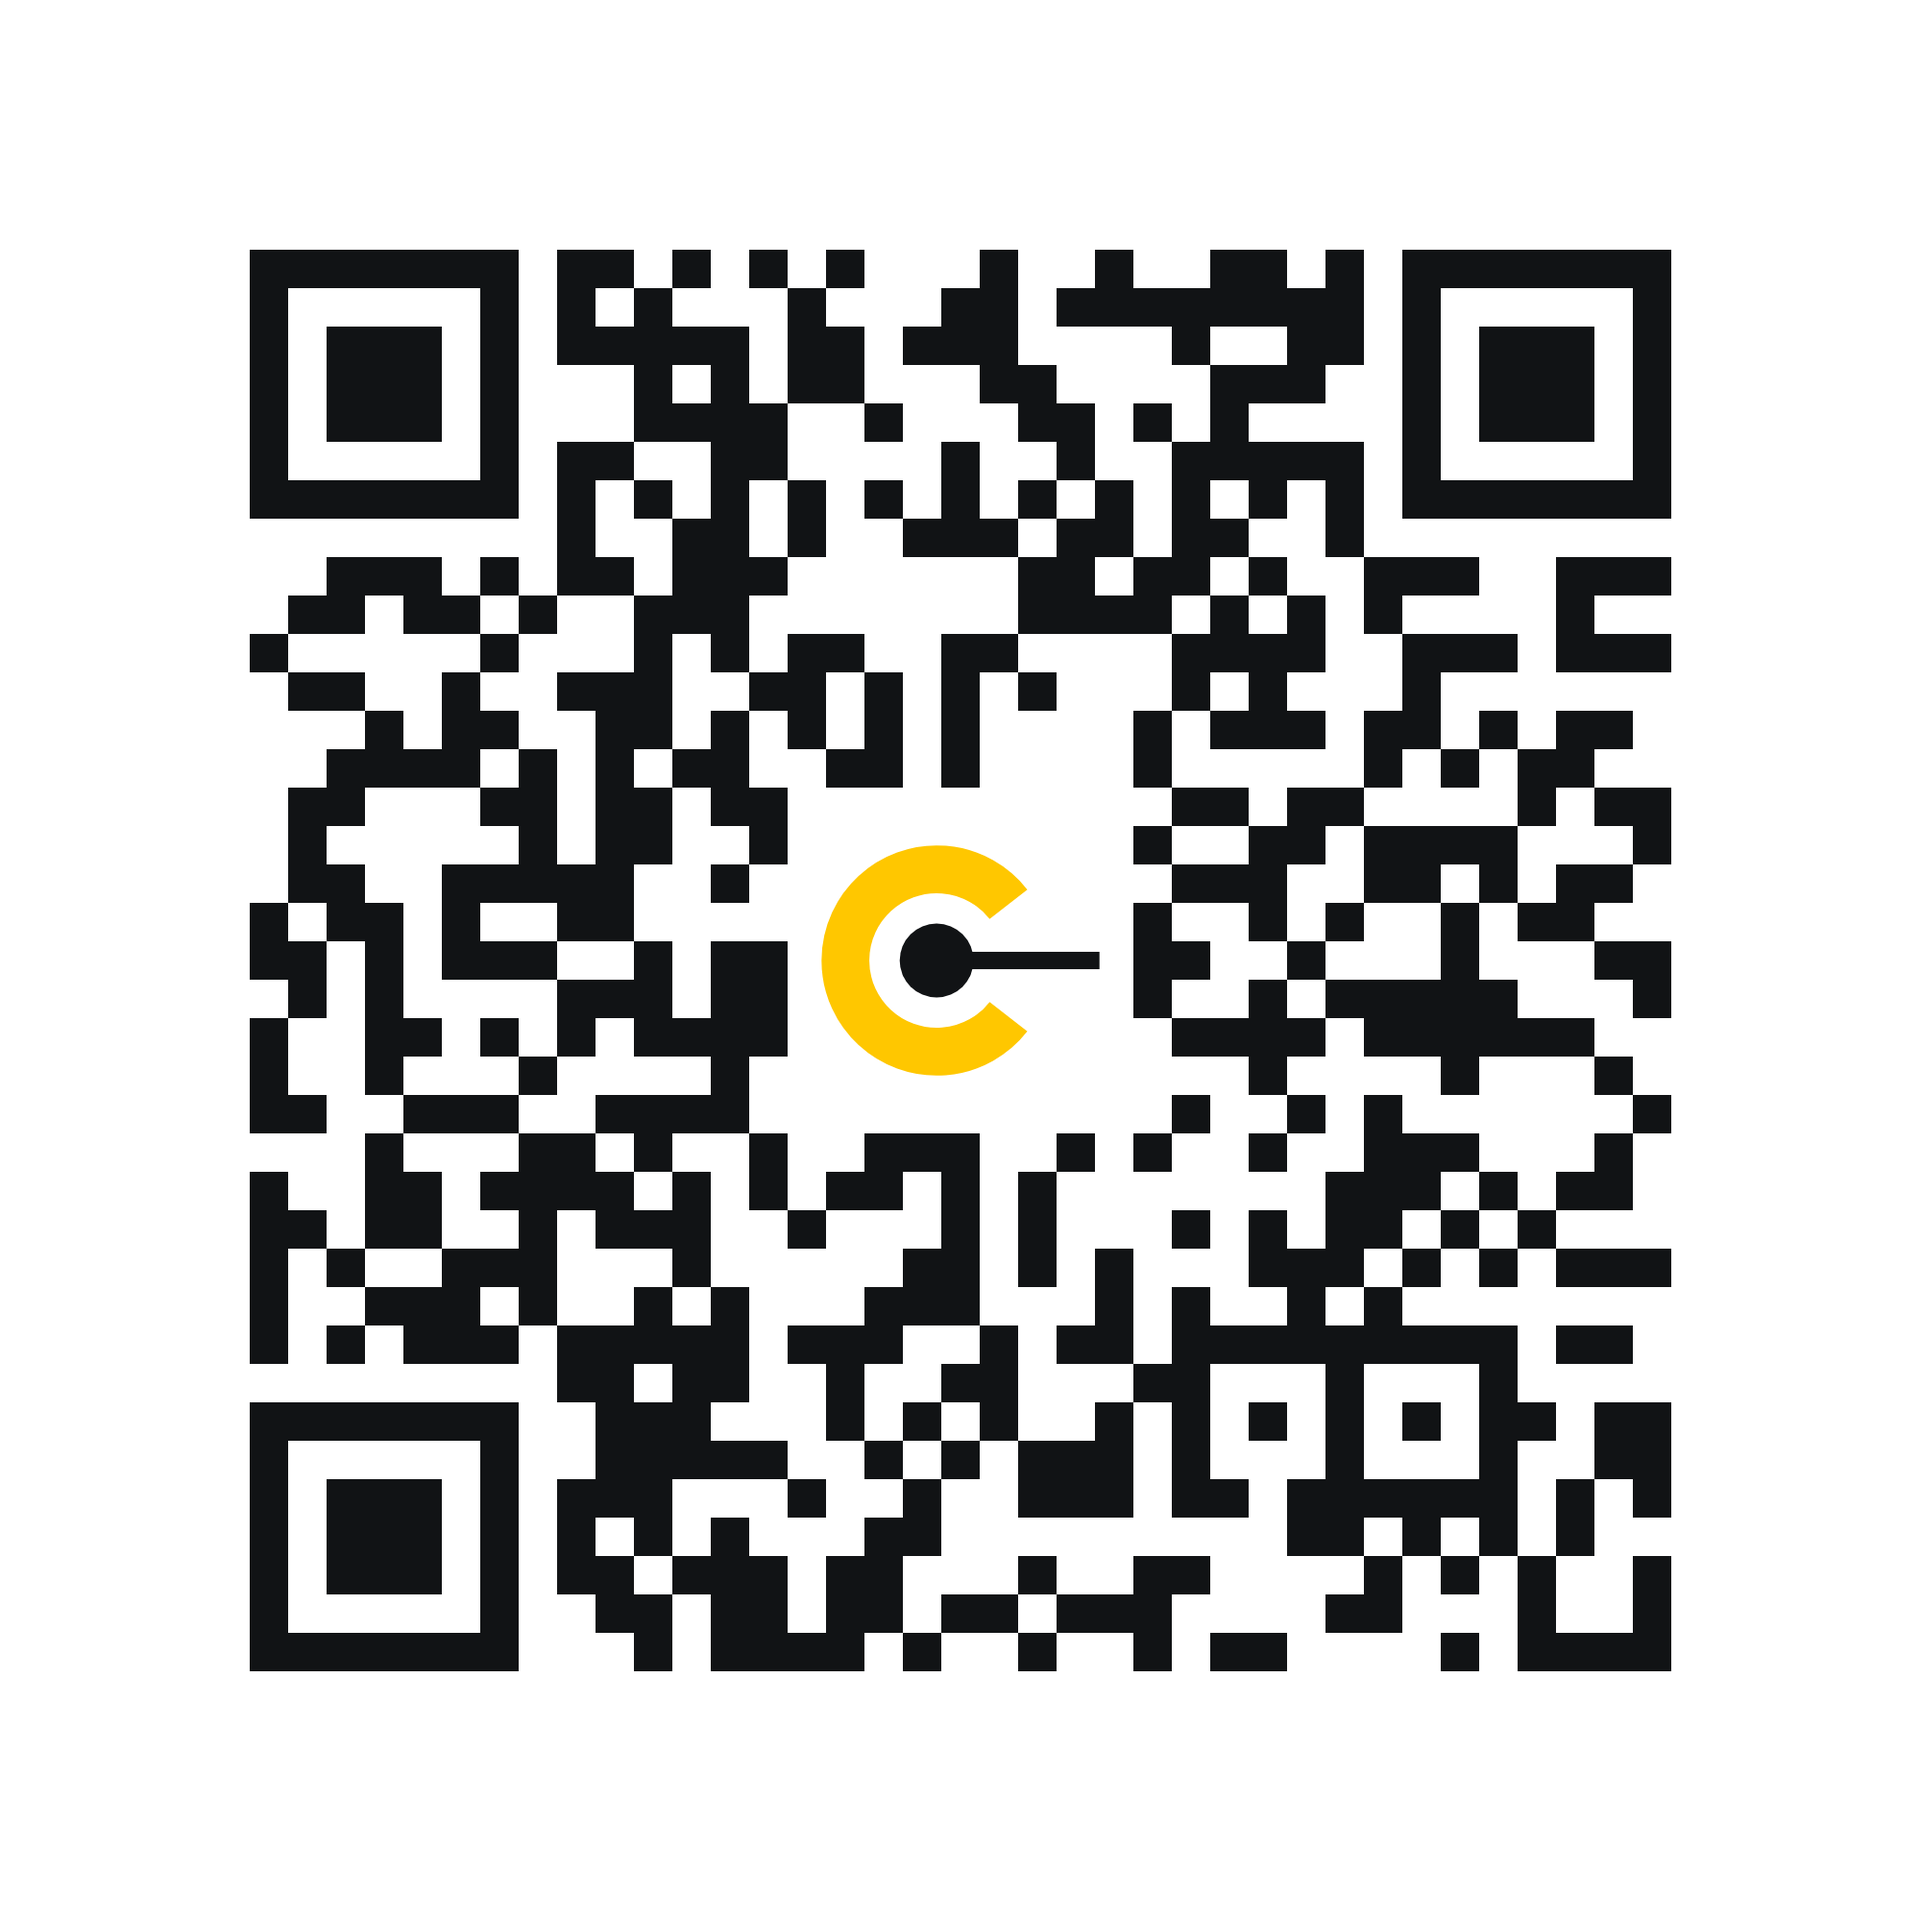
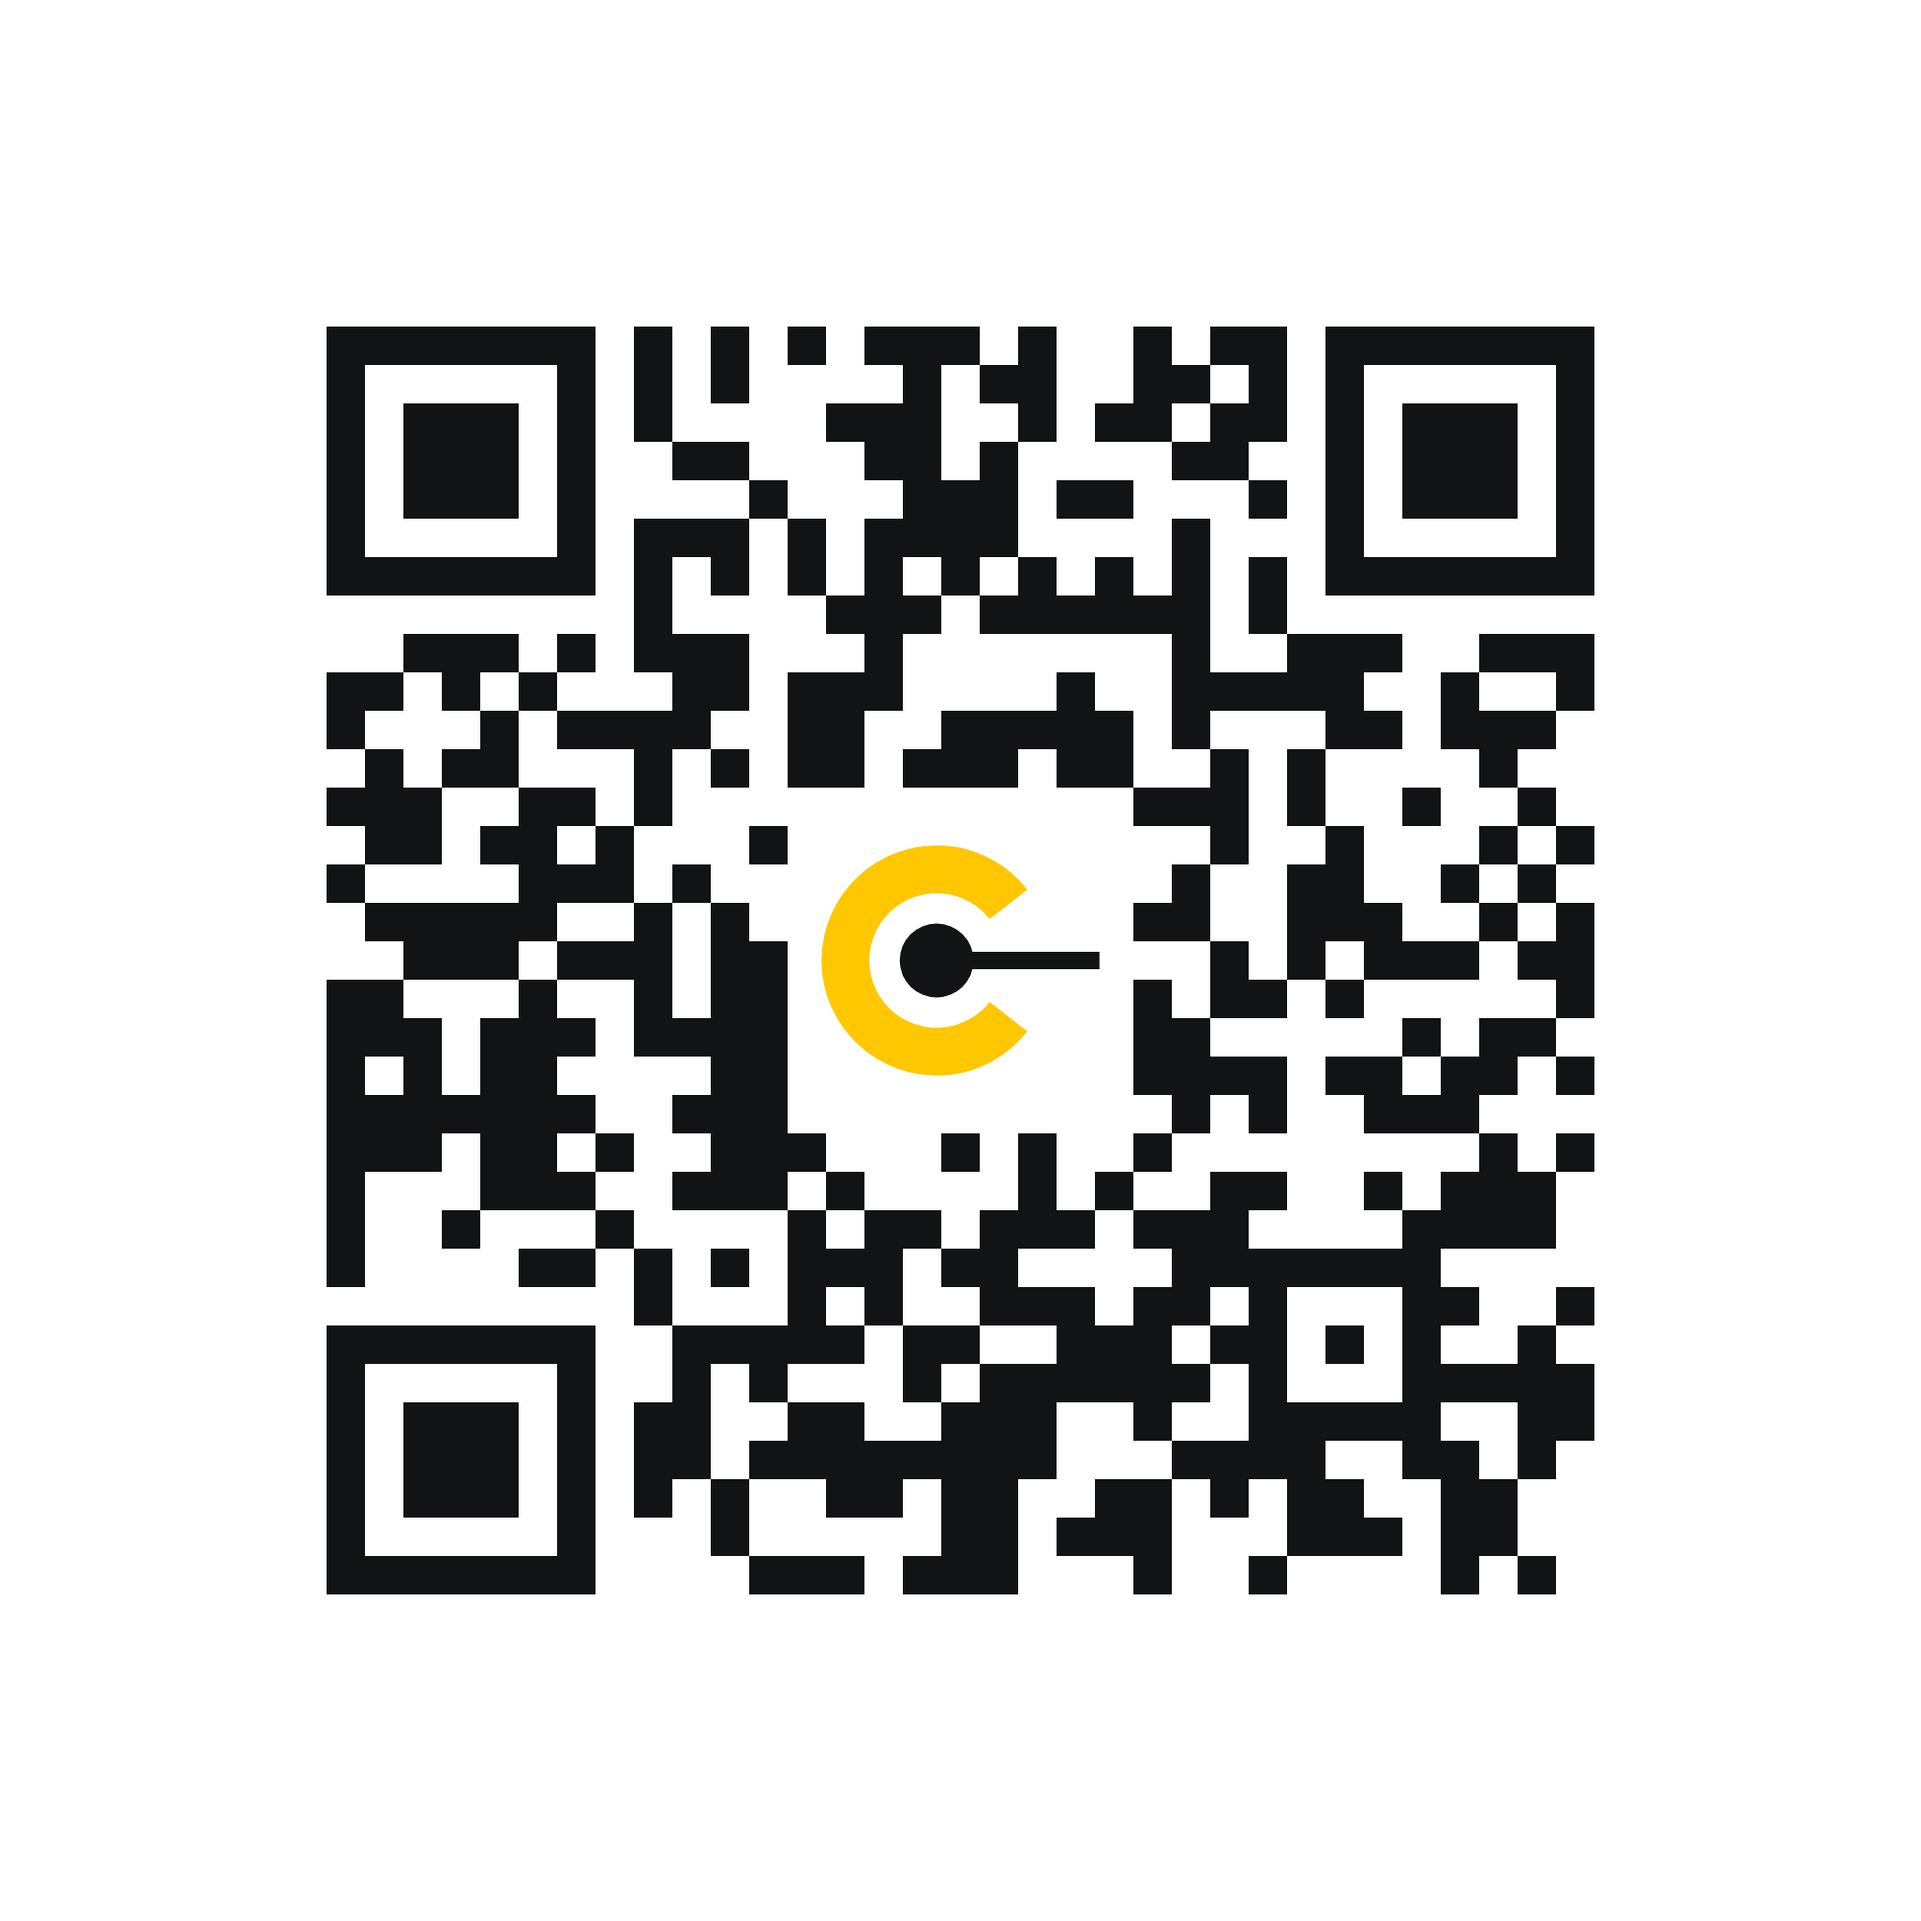
Use dalil-team.com as the site address and new QR code
Claude-Session: https://claude.ai/code/session_018Dch5eMVUFnBE6e8Ccw16C

Changed region(s): [[0.124, 0.124, 0.868, 0.868]]

diff --git a/dalil/site/index.html b/dalil/site/index.html
@@ -5,15 +5,15 @@
   <meta name="viewport" content="width=device-width, initial-scale=1, viewport-fit=cover">
   <title>DALIL · Make the existing path speak</title>
   <meta name="description" content="DALIL is a 3D-printed clip that makes any handrail readable by hand, with braille, raised numbers and a glow for blackouts. Join the waitlist or invest.">
-  <link rel="canonical" href="https://dalil-invest.netlify.app/">
+  <link rel="canonical" href="https://dalil-team.com/">
   <meta name="theme-color" content="#0B0C0E">
   <meta name="color-scheme" content="dark">
   <meta property="og:type" content="website">
   <meta property="og:site_name" content="DALIL">
-  <meta property="og:url" content="https://dalil-invest.netlify.app/">
+  <meta property="og:url" content="https://dalil-team.com/">
   <meta property="og:title" content="DALIL · Make the existing path speak">
   <meta property="og:description" content="A clip that makes any handrail readable by hand. Braille, raised numbers and a glow for when the lights fail.">
-  <meta property="og:image" content="https://dalil-invest.netlify.app/og-image.jpg">
+  <meta property="og:image" content="https://dalil-team.com/og-image.jpg">
   <meta property="og:image:width" content="1200">
   <meta property="og:image:height" content="630">
   <meta property="og:image:alt" content="A yellow DALIL clip on a steel handrail, with the line: Make the existing path speak.">

diff --git a/dalil/site/privacy/index.html b/dalil/site/privacy/index.html
@@ -5,7 +5,7 @@
   <meta name="viewport" content="width=device-width, initial-scale=1, viewport-fit=cover">
   <title>Privacy · DALIL</title>
   <meta name="description" content="How DALIL uses the details you share through our waitlist and investor form.">
-  <link rel="canonical" href="https://dalil-invest.netlify.app/privacy/">
+  <link rel="canonical" href="https://dalil-team.com/privacy/">
   <meta name="theme-color" content="#0B0C0E">
   <meta name="color-scheme" content="dark">
   <link rel="icon" href="/favicon.svg" type="image/svg+xml">

diff --git a/dalil/tools/make-qr.js b/dalil/tools/make-qr.js
@@ -4,7 +4,7 @@
 //
 // Usage (needs Node 18+):
 //   npm install qrcode@1.5.4 jsqr@1.4.0 pngjs@7.0.0 playwright
-//   node make-qr.js https://dalil-invest.netlify.app/?src=qr ../qr
+//   node make-qr.js https://dalil-team.com/?src=qr ../qr
 const fs = require('fs');
 const path = require('path');
 const QRCode = require('qrcode');

diff --git a/dalil/README.md b/dalil/README.md
@@ -2,7 +2,7 @@
 
 The DALIL company landing page. Its one job is to get investors, mentors and the first buildings to fill in the form. People scan the QR code on the closing slide, see the clip work on their phone, and join the waitlist in under a minute. Each sign-up is saved in Netlify, emailed to both founders, and can be downloaded as a spreadsheet (CSV) or copied into a Google Sheet automatically.
 
-- Live address (once deployed): `https://dalil-invest.netlify.app`, or your own domain (see [Use your own domain](#use-your-own-domain))
+- Live address: `https://dalil-team.com` (the old `https://dalil-invest.netlify.app` forwards to it)
 - Public contact email on the page: `dalilwayfinding@gmail.com`
 - Sign-up emails go to: `ahmednazar422@gmail.com` and `dalilwayfinding@gmail.com`
 
@@ -112,9 +112,9 @@ If `dalil-invest` is already taken, choose another name, then remake the QR code
 
 Add `?src=` and a short label to any link you share:
 
-- `https://dalil-invest.netlify.app/?src=linkedin`
-- `https://dalil-invest.netlify.app/?src=whatsapp`
-- `https://dalil-invest.netlify.app/?src=email`
+- `https://dalil-team.com/?src=linkedin`
+- `https://dalil-team.com/?src=whatsapp`
+- `https://dalil-team.com/?src=email`
 
 The label shows up in the `src` column. Labels can use lowercase letters, numbers, `-` and `_`.
 
@@ -226,7 +226,7 @@ In a terminal, from the `dalil/site` folder, run `python3 -m http.server 8000`, 
 
 ## QR code
 
-- `qr/qr-dalil.png` (2000 × 2000 px) and `qr/qr-dalil.svg` (sharp at any size) open `https://dalil-invest.netlify.app/?src=qr`.
+- `qr/qr-dalil.png` (2000 × 2000 px) and `qr/qr-dalil.svg` (sharp at any size) open `https://dalil-team.com/?src=qr`.
 - Ink `#111315` on white, error correction level H, a wide white border, and the DALIL mark in the centre.
 - Checked by reading it back with a QR decoder at full size and at 160 px, and blurred, tilted 8° and at low contrast.
 
